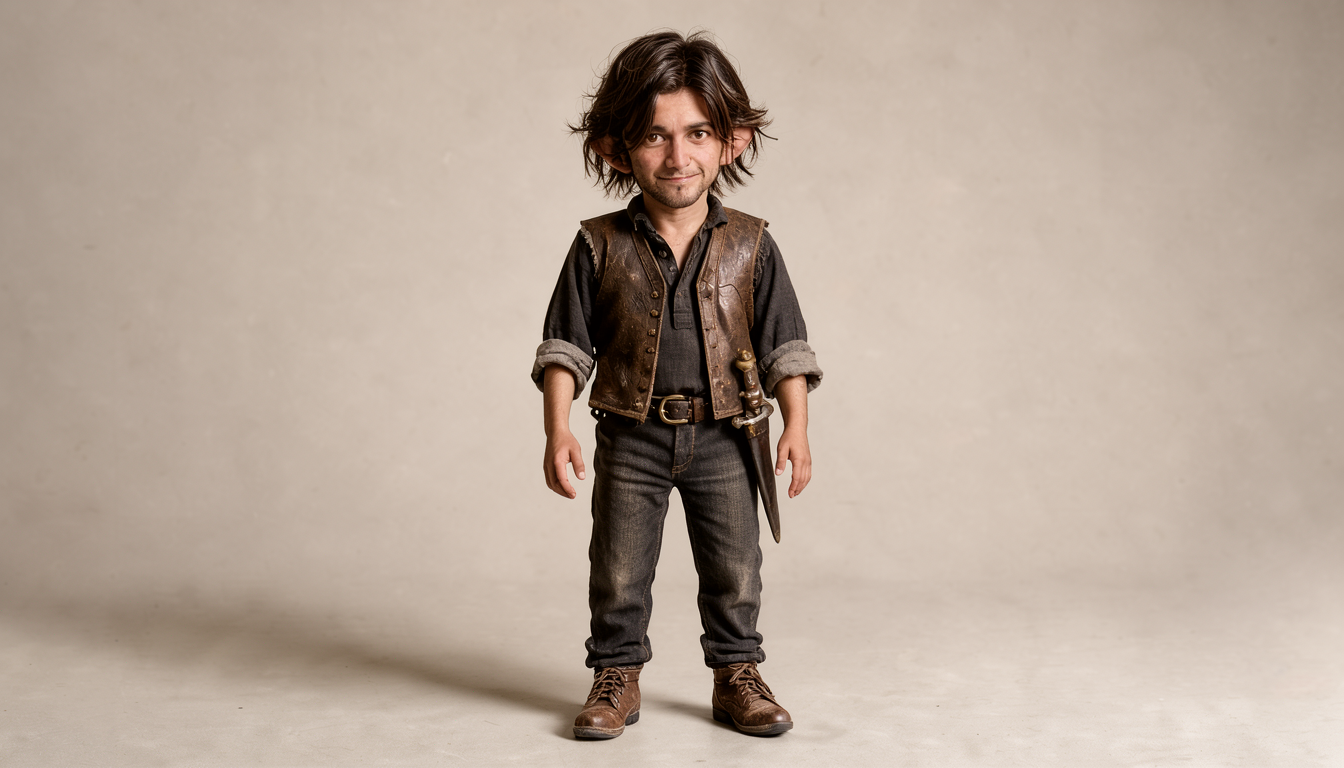
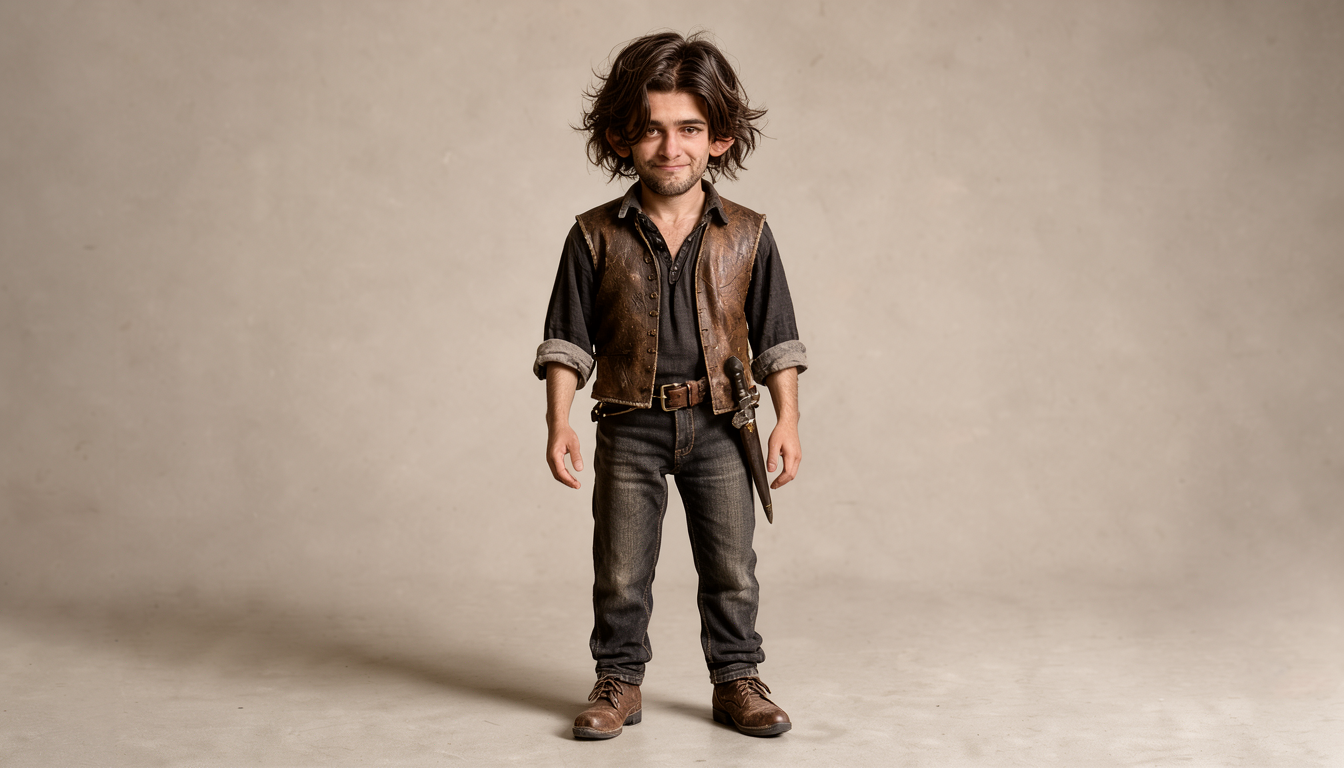
sheet-test: Shade lab batch 5 — counterfactual identity + anti-baby bans, versioned snapshot

Changed region(s): [[0.375, 0.0312, 0.625, 0.7812], [0.4062, 0.7188, 0.5, 0.9688], [0.5312, 0.8438, 0.5938, 0.9688]]

diff --git a/tests/test_shadelab.py b/tests/test_shadelab.py
@@ -21,8 +21,9 @@ SHADE_CHUNK = (
 )
 SCALED_CLAUSE = (
     "full-size adult human features scaled down uniformly, exactly the same head-to-body and "
-    "ear-to-head proportions as a full-size grown man, head one-seventh of total body height, "
-    "small adult head, small rounded human ears mostly tucked "
+    "ear-to-head proportions as a full-size grown man, he is a full-grown man who happens to "
+    "stand three feet tall, enlarged to six feet he would be indistinguishable from an ordinary "
+    "human man, small adult head, small rounded human ears mostly tucked "
     "under his hair, lying flat against the sides of his head below eye level, no pointed tips, "
     "no elf ears, no large ears, no protruding ears, no oversized head, no chibi or doll-like proportions"
 )
@@ -43,6 +44,8 @@ class TestShadeLabDescriptions(unittest.TestCase):
         self.assertLess(text.index(SHADE_CHUNK), text.index(SCALED_CLAUSE))
         self.assertLess(text.index(SCALED_CLAUSE), text.index("exactly two arms"))
         self.assertEqual(text.count("exactly two arms"), 1)
+        self.assertRegex(text, r"(?i)not a baby", "batch 4 showed a baby read — must be banned")
+        self.assertRegex(text, r"(?i)not a toddler", "batch 4 showed a toddler read — must be banned")
         self.assertNotRegex(text, r"(?i)shield")
         self.assertIn(f"character-bible/Sheets/Shade.pdf", sources)
         self.assertIn(SHADE_URL, sources)

diff --git a/character-bible/sheet-test/shade-lab/descriptions.md b/character-bible/sheet-test/shade-lab/descriptions.md
@@ -6,7 +6,7 @@ ear bans (chunk untouched; additions around it).
 
 ## Shade (shade)
 
-young adult halfling man, mid-20s, mature adult face, lean build, messy shaggy dark brown hair falling over and covering his ears, ears small and rounded beneath it, light stubble, no beard, warm brown eyes, subtle sly closed-mouth expression, worn dark linen shirt with rolled sleeves, scuffed brown leather vest, belt dagger at hips, small adult stature about three feet tall, NOT a child, full-size adult human features scaled down uniformly, exactly the same head-to-body and ear-to-head proportions as a full-size grown man, head one-seventh of total body height, small adult head, small rounded human ears mostly tucked under his hair, lying flat against the sides of his head below eye level, no pointed tips, no elf ears, no large ears, no protruding ears, no oversized head, no chibi or doll-like proportions, exactly two arms
+young adult halfling man, mid-20s, mature adult face, lean build, messy shaggy dark brown hair falling over and covering his ears, ears small and rounded beneath it, light stubble, no beard, warm brown eyes, subtle sly closed-mouth expression, worn dark linen shirt with rolled sleeves, scuffed brown leather vest, belt dagger at hips, small adult stature about three feet tall, NOT a baby, NOT a toddler, NOT a child, full-size adult human features scaled down uniformly, exactly the same head-to-body and ear-to-head proportions as a full-size grown man, he is a full-grown man who happens to stand three feet tall, enlarged to six feet he would be indistinguishable from an ordinary human man, small adult head, small rounded human ears mostly tucked under his hair, lying flat against the sides of his head below eye level, no pointed tips, no elf ears, no large ears, no protruding ears, no oversized head, no chibi or doll-like proportions, exactly two arms
 
 Sources:
 - character-bible/Sheets/Shade.pdf

diff --git a/character-bible/sheet-test/shade-lab/batches/batch5/descriptions.md b/character-bible/sheet-test/shade-lab/batches/batch5/descriptions.md
@@ -1,0 +1,14 @@
+# Shade Lab — revised block for the four-seed wording test
+
+Single block source for `shade-lab`. The Arm B Shade block verbatim, plus
+the accepted fix: scaled-down-adult framing and the bible's NEVER-list
+ear bans (chunk untouched; additions around it).
+
+## Shade (shade)
+
+young adult halfling man, mid-20s, mature adult face, lean build, messy shaggy dark brown hair falling over and covering his ears, ears small and rounded beneath it, light stubble, no beard, warm brown eyes, subtle sly closed-mouth expression, worn dark linen shirt with rolled sleeves, scuffed brown leather vest, belt dagger at hips, small adult stature about three feet tall, NOT a baby, NOT a toddler, NOT a child, full-size adult human features scaled down uniformly, exactly the same head-to-body and ear-to-head proportions as a full-size grown man, he is a full-grown man who happens to stand three feet tall, enlarged to six feet he would be indistinguishable from an ordinary human man, small adult head, small rounded human ears mostly tucked under his hair, lying flat against the sides of his head below eye level, no pointed tips, no elf ears, no large ears, no protruding ears, no oversized head, no chibi or doll-like proportions, exactly two arms
+
+Sources:
+- character-bible/Sheets/Shade.pdf
+- https://www.dndbeyond.com/species/14-halfling
+- bible.md locked chunks (main checkout)

diff --git a/character-bible/sheet-test/shade-lab/README.md b/character-bible/sheet-test/shade-lab/README.md
@@ -16,6 +16,7 @@ the batch commit); only the latest set lives in `workflows/`.
 | batch2 | `9551f52` | Ratio-anchored clause: identical head-to-body and ear-to-head proportions, anti-chibi bans | same four |
 | batch3 | `3339e44` | Ear-placement clause: ears tucked under hair, flat, below eye level, "no pointed tips" | same four |
 | batch4 | _(this commit)_ | Head-ratio anchor: "head one-seventh of total body height, small adult head" — pass criterion is correct head size on **all four seeds**, not just s2 | same four |
+| batch5 | _(this commit)_ | Identity over measurement: dead 1:7 ratio swapped for counterfactual ("full-grown man who happens to stand three feet tall, enlarged to six feet indistinguishable from an ordinary human man") + explicit NOT a baby / NOT a toddler bans (batch 4's s3 was a baby with a giant head) | same four |
 
 Human verdicts so far: batch 2 `shade_s2` closest on head size; ears still
 sticking out through batch 3. Batch 4: explicit 1:7 ratio changed nothing —
